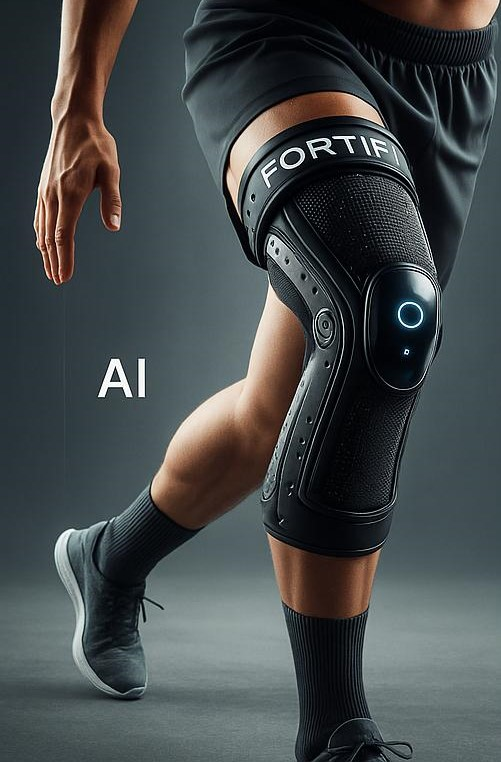
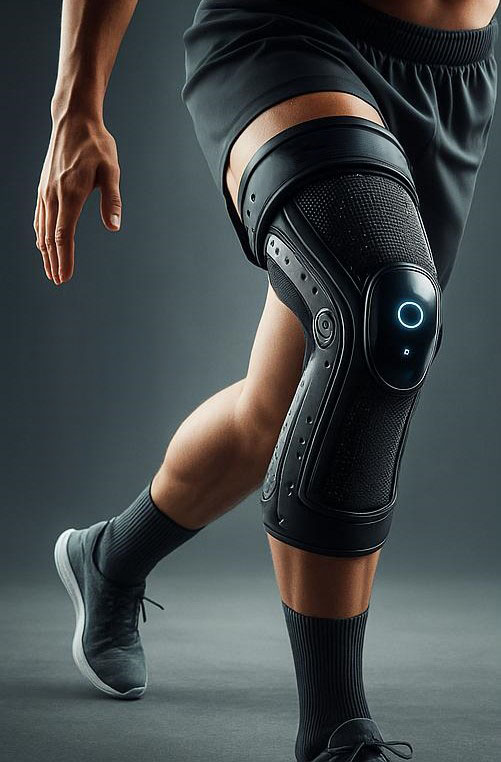
product

Changed region(s): [[0.509, 0.1509, 0.8084, 0.2415], [0.1796, 0.4528, 0.2994, 0.5433]]

diff --git a/index.html b/index.html
@@ -87,7 +87,7 @@
       Learn about cards at: https://getbootstrap.com/docs/5.1/components/card/
     -->
     
-	  	<h3 class="white center" id="product"><b>iBrace:</b></h3>
+	  	<h1 class="white center" id="product"><b>iBrace:</b></h1>
 		 <p class="white center">Lorem Ipsum type shit</p>
 		
 				<!-- Begin Product Section -->
@@ -101,22 +101,15 @@
             aria-current="true" aria-label="Slide 1"></button>
           <button type="button" data-bs-target="#productCarousel" data-bs-slide-to="1"
             aria-label="Slide 2"></button>
-          <button type="button" data-bs-target="#productCarousel" data-bs-slide-to="2"
-            aria-label="Slide 3"></button>
         </div>
         <div class="carousel-inner">
           <div class="carousel-item active">
-            <img src="images/product1.jpg" alt="Product Image 1" 
+            <img src="images/product1.png" alt="Product Image 1" 
               class="d-block img-fluid rounded-image"
               style="width:500px; height:500px; object-fit: cover;">
           </div>
           <div class="carousel-item">
-            <img src="images/product2.jpg" alt="Product Image 2" 
-              class="d-block img-fluid rounded-image"
-              style="width:500px; height:500px; object-fit: cover;">
-          </div>
-          <div class="carousel-item">
-            <img src="images/product3.jpg" alt="Product Image 3" 
+            <img src="images/product2.2.png" alt="Product Image 2" 
               class="d-block img-fluid rounded-image"
               style="width:500px; height:500px; object-fit: cover;">
           </div>
@@ -135,7 +128,7 @@
     <div class="white col-md-6">
       <h1>iBrace</h1>
       <p>A short description of the product that highlights its key features.</p>
-      <h4 class="text-primary">$99.99</h4>
+      <h4 class="purple">$99.99</h4>
       <h4>Notable Features:</h4>
       <ul>
         <li>High quality material</li>
@@ -151,7 +144,7 @@
           <option value="XL">XL</option>
         </select>
       </div>
-      <button class="btn btn-success btn-lg mt-3">Add to Cart</button>
+      <button class="btn btn-secondary btn-lg mt-3">Add to Cart</button>
     </div>
   </div>
 </div>
